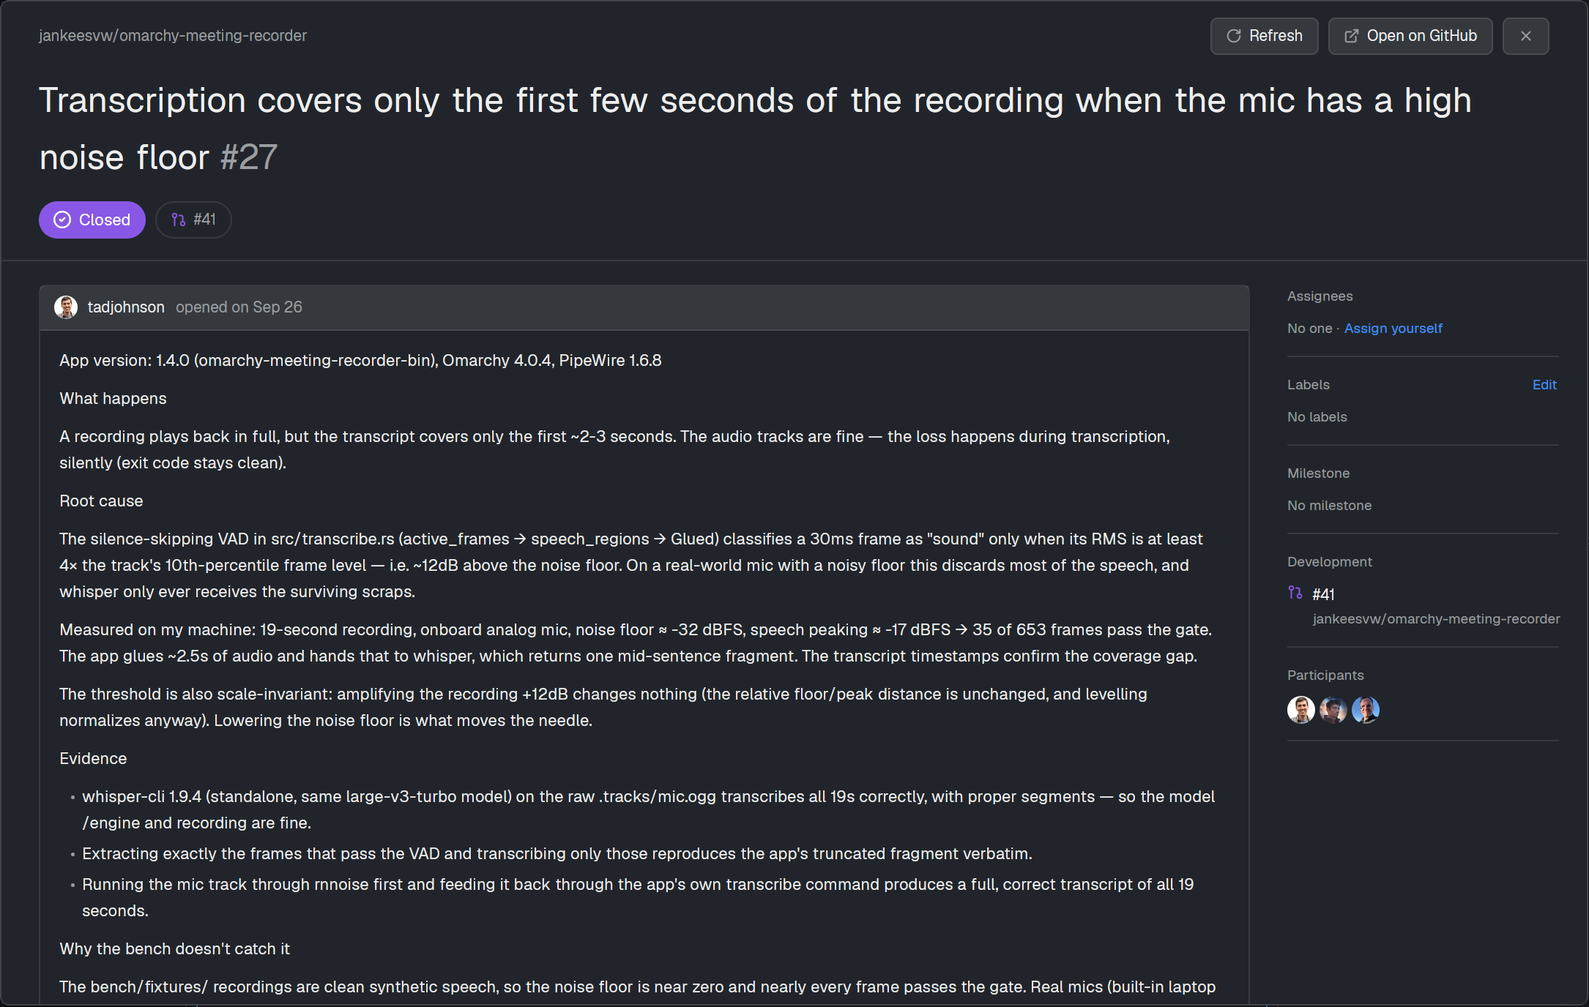
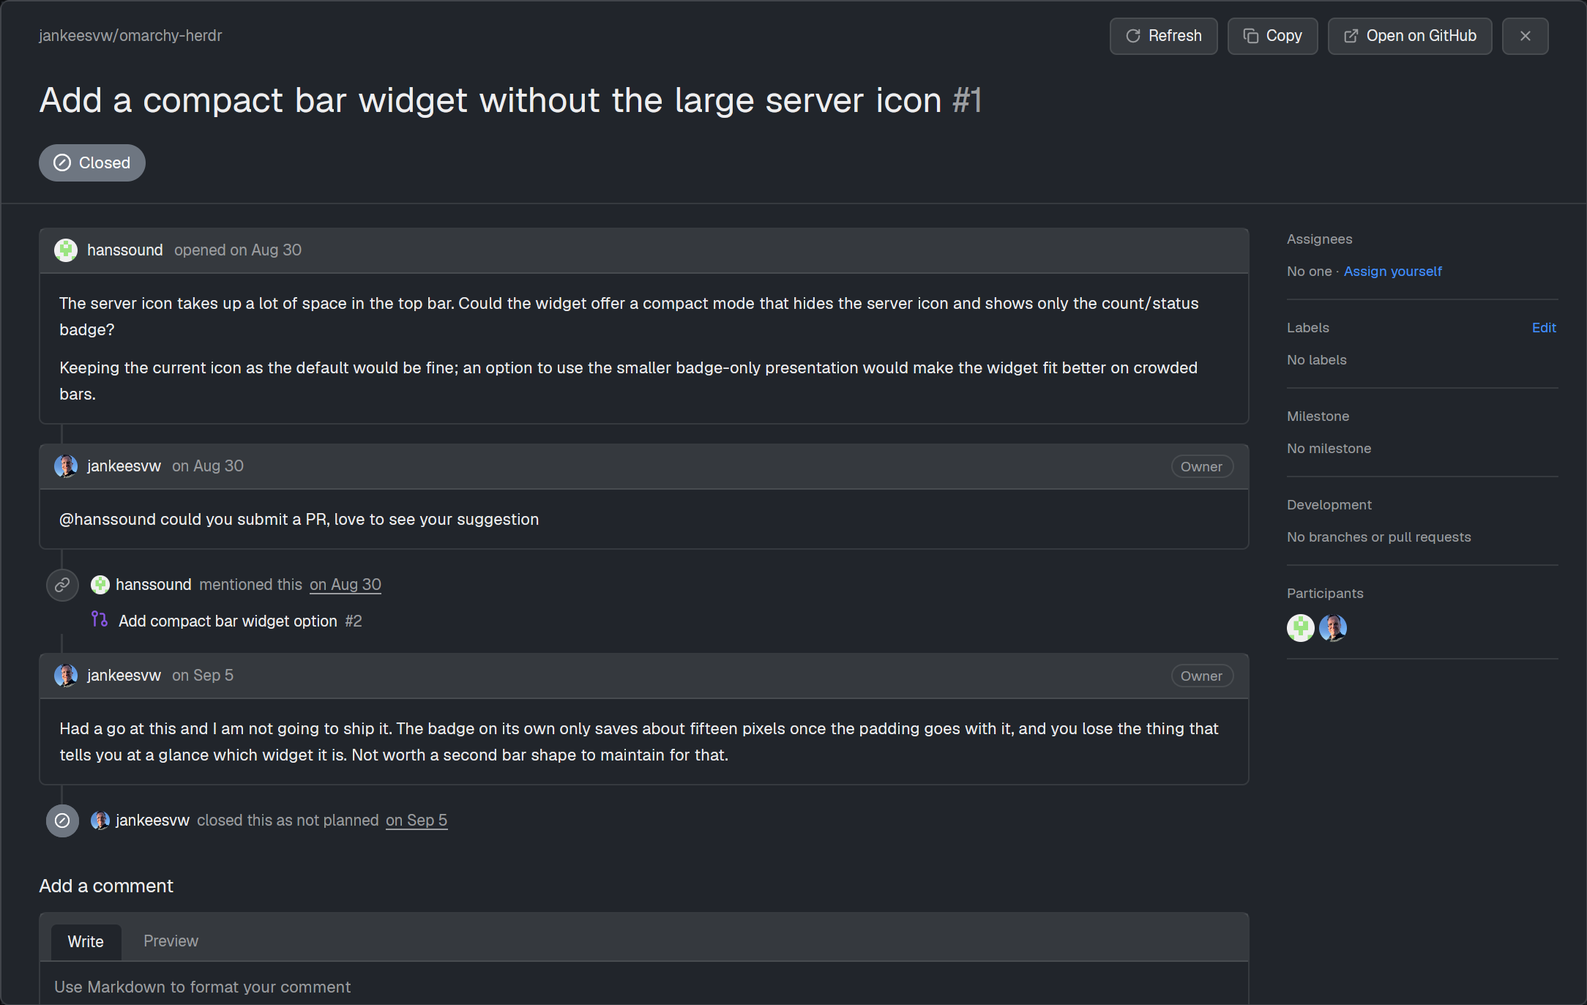
Show images in issues, add a copy menu, refresh the screenshots
Screenshots in bodies and comments are drawn between the markdown, from
a copy in the data folder; private repositories' attachments are
fetched with the gh token. Copy link, reference, number or title from
the issue view or by right-clicking a row.

diff --git a/mods/issues/viewer.js b/mods/issues/viewer.js
@@ -1,7 +1,8 @@
 import { div, svg, image } from "gpui-kit";
 import { v_flex, h_flex, TextView, TextareaState, Textarea } from "gpui-base";
-import { exec, theme, closeOverlay, setShared } from "herdr";
+import { exec, theme, openOverlay, closeOverlay, setShared } from "herdr";
 import { icons, icon, avatarPath, loadAvatar } from "./icons.js";
+import { blocks, picture, failed, loadPicture } from "./pictures.js";
 
 export const FIELDS = "number,title,body,author,state,stateReason,labels,assignees,createdAt,updatedAt,comments,url";
 const DETAIL = `${FIELDS},milestone,closedByPullRequestsReferences,reactionGroups`;
@@ -86,6 +87,12 @@ function timeline(raw) {
     }
   }
   return items;
+}
+
+// GitHub's Copy link, with the reference and number beside it: a popup of the panel's mod.
+export function copyMenu({ repo, number, title, url }, at) {
+  openOverlay({ mod: "issues", kind: "popup", width: 300, height: 222, ...(at ? { at } : {}),
+    props: { copyMenu: { url: url ?? `https://github.com/${repo}/issues/${number}`, ref: `${repo}#${number}`, number: `#${number}`, title: title ? `#${number} ${title}` : null } } });
 }
 
 // A label as GitHub tints it: its color faint behind, its color as text unless too dark to read.
@@ -251,11 +258,30 @@ export class Viewer {
         .when(!c.first && c.login === author, (e) => e.child(this.badge("Author", t)))
         .when(!c.first && Boolean(ROLES[c.role]), (e) => e.child(this.badge(ROLES[c.role], t))))
       .child(div().px(16).py(14).text_size(14).child(c.body?.trim()
-        ? TextView.markdown(key, linkify(c.body, this.repo)).selectable(true).on_link_click((url, cx) => this.link(url, cx))
+        ? this.markdown(key, c.body, t, cx)
         : div().text_color(t.muted).italic().child("No description provided.")))
       .when(c.reactions?.length > 0, (e) => e.child(h_flex().px(16).pb(14).gap(6).flex_wrap()
         .children(c.reactions.map((r) => h_flex().h(26).px(8).gap(5).items_center().rounded(13).border_1().border_color(t.border).bg(t.raised)
           .text_size(12).text_color(t.muted).child(div().text_size(14).child(r.emoji)).child(String(r.count))))));
+  }
+
+  // Markdown with its images drawn in between the text.
+  markdown(key, body, t, cx) {
+    const parts = blocks(body);
+    return v_flex().gap(12).children(parts.map((b, n) => b.image ? this.picture(`${key}-${n}`, b, t, cx)
+      : TextView.markdown(`${key}-${n}`, linkify(b.text, this.repo)).selectable(true).on_link_click((url, cx) => this.link(url, cx))));
+  }
+
+  // As GitHub sizes one: its width attribute, else its own, never wider than the column.
+  picture(key, b, t, cx) {
+    const loading = loadPicture(b.image);
+    if (loading) cx.spawn(async (cx) => { await loading; cx.notify(); });
+    const p = picture(b.image);
+    if (!p) return div().h(failed(b.image) ? 36 : 120).w_full().flex_none().rounded(6).border_1().border_color(t.border).bg(t.raised)
+      .flex().items_center().justify_center().px(12).text_size(12).text_color(t.muted).truncate()
+      .child(failed(b.image) ? `Image could not be loaded${b.alt ? `: ${b.alt}` : ""}` : "Loading image…");
+    const room = Math.max(240, (this.width ?? 1100) - 380), w = Math.min(b.width ?? p.width, room), h = Math.round(p.height * w / p.width);
+    return div().id(key).flex_none().cursor_pointer().on_click(() => openUrl(p.file)).child(image(p.path).w(w).h(h).rounded(6));
   }
 
   // An event on the timeline: a round icon on the line, then who did what, when.
@@ -400,6 +426,7 @@ export class Viewer {
       .when(this.loading || Boolean(this.busy), (e) => e.child(h_flex().gap(6).items_center().text_size(12).text_color(t.muted)
         .child(svg("mods/workspace-chrome/spinner.svg").size(12).text_color(t.working).spin(900)).child(this.busy ?? "Refreshing")))
       .when(Boolean(i) && !this.loading && !this.busy, (e) => e.child(this.button("issue-refresh", "Refresh", t, (_e, cx) => { this.load(cx); cx.notify(); }, { glyph: "refresh" })))
+      .when(Boolean(i), (e) => e.child(this.button("issue-copy", "Copy", t, () => copyMenu({ repo: this.repo, number: i.number, title: i.title, url: i.url }), { glyph: "copy" })))
       .when(Boolean(i), (e) => e.child(this.button("issue-github", "Open on GitHub", t, () => openUrl(i.url), { glyph: "external" })))
       .child(this.button("issue-close", "", t, () => closeOverlay(this.overlay), { glyph: "close" }));
     if (!i) return v_flex().id("issue").size_full().bg(t.background).text_color(t.foreground).text_size(14).px(32).pt(16).gap(20)
@@ -410,6 +437,7 @@ export class Viewer {
     const [state, color, glyph] = i.state === "OPEN" ? ["Open", GITHUB.open, "issue"] : i.state === "MERGED" ? ["Merged", GITHUB.done, "pull"]
       : i.stateReason === "NOT_PLANNED" ? ["Closed", GITHUB.skipped, "skipped"] : ["Closed", GITHUB.done, "done"];
     return v_flex().id("issue").size_full().min_h(0).bg(t.background).text_color(t.foreground).text_size(14)
+      .on_size_change((size, cx) => { if (size.width !== this.width) { this.width = size.width; cx.notify(); } })
       .child(v_flex().flex_none().px(32).pt(14).pb(18).gap(14).border_b(1).border_color(t.border)
         .child(bar)
         // Word by word, so the title wraps like text with the number after its last word.

diff --git a/mods/issues/pictures.js b/mods/issues/pictures.js
@@ -1,0 +1,87 @@
+import * as fs from "fs/promises";
+import { appHome, exec } from "herdr";
+
+// The markdown view draws no images, so the screenshots in issues are cut out
+// of the text and drawn between its runs, from a copy in the data folder.
+const IMAGE = /(```[\s\S]*?```)|\[?!\[([^\]]*)\]\(<?([^)\s>]+)>?(?:\s+"[^"]*")?\)(?:\]\([^)]*\))?|<img\b([^>]*)>/g;
+
+// The body as markdown runs and the images between them; code is left alone.
+export function blocks(markdown) {
+  const out = [];
+  let last = 0, m;
+  IMAGE.lastIndex = 0;
+  while ((m = IMAGE.exec(markdown))) {
+    if (m[1]) continue;
+    const attrs = m[4] ?? "", src = m[3] ?? /\bsrc=["']([^"']+)["']/.exec(attrs)?.[1];
+    if (!src || !/^https?:\/\//.test(src)) continue;
+    out.push({ text: markdown.slice(last, m.index) });
+    out.push({ image: src, alt: m[2] ?? /\balt=["']([^"']*)["']/.exec(attrs)?.[1] ?? "", width: Number(/\bwidth=["']?(\d+)/.exec(attrs)?.[1]) || null });
+    last = m.index + m[0].length;
+  }
+  out.push({ text: markdown.slice(last) });
+  return out.filter((b) => b.image || b.text.trim());
+}
+
+// Width and height from the file's own header.
+function dimensions(b) {
+  const u16 = (i) => (b[i] << 8) | b[i + 1], u32 = (i) => ((b[i] << 24) | (b[i + 1] << 16) | (b[i + 2] << 8) | b[i + 3]) >>> 0;
+  const ascii = (from, to) => String.fromCharCode(...b.slice(from, to));
+  if (b[0] === 0x89 && ascii(1, 4) === "PNG") return { width: u32(16), height: u32(20) };
+  if (ascii(0, 4) === "GIF8") return { width: b[6] | (b[7] << 8), height: b[8] | (b[9] << 8) };
+  if (b[0] === 0xff && b[1] === 0xd8) {
+    for (let i = 2; i + 9 < b.length;) {
+      if (b[i] !== 0xff || b[i + 1] === 0xff) { i++; continue; }
+      const marker = b[i + 1];
+      if (marker >= 0xc0 && marker <= 0xcf && ![0xc4, 0xc8, 0xcc].includes(marker)) return { width: u16(i + 7), height: u16(i + 5) };
+      i += 2 + u16(i + 2);
+    }
+    return null;
+  }
+  if (ascii(0, 4) === "RIFF" && ascii(8, 12) === "WEBP") {
+    const kind = ascii(12, 16);
+    if (kind === "VP8X") return { width: 1 + (b[24] | (b[25] << 8) | (b[26] << 16)), height: 1 + (b[27] | (b[28] << 8) | (b[29] << 16)) };
+    if (kind === "VP8 ") return { width: (b[26] | (b[27] << 8)) & 0x3fff, height: (b[28] | (b[29] << 8)) & 0x3fff };
+    if (kind === "VP8L") {
+      const bits = (b[21] | (b[22] << 8) | (b[23] << 16) | (b[24] << 24)) >>> 0;
+      return { width: (bits & 0x3fff) + 1, height: ((bits >>> 14) & 0x3fff) + 1 };
+    }
+  }
+  const text = ascii(0, Math.min(b.length, 2000));
+  if (/<svg\b/.test(text)) {
+    const w = /<svg[^>]*\bwidth="([\d.]+)/.exec(text)?.[1], h = /<svg[^>]*\bheight="([\d.]+)/.exec(text)?.[1];
+    if (w && h) return { width: Math.round(+w), height: Math.round(+h) };
+  }
+  return null;
+}
+
+const pictures = {};
+const hash = (s) => [...s].reduce((h, c) => (Math.imul(h, 31) + c.charCodeAt(0)) >>> 0, 2166136261).toString(16);
+
+// { path (for image()), file, width, height } once downloaded; null before.
+export const picture = (url) => typeof pictures[url] === "object" ? pictures[url] : null;
+export const failed = (url) => pictures[url] === "missing";
+
+// Starts the download the first time a URL is asked for: a promise that
+// resolves once it's ready or failed.
+export function loadPicture(url) {
+  if (pictures[url] !== undefined) return null;
+  pictures[url] = "loading";
+  return (async () => {
+    const path = `data/issues/images/${hash(url)}.png`, file = `${appHome()}/${path}`;
+    try {
+      if (!await fs.exists(file)) {
+        await fs.mkdir(`${appHome()}/data/issues/images`, { recursive: true });
+        // Attachments of private repositories need the gh token. It goes only to
+        // github.com, through stdin so it's never on a command line, and curl
+        // drops it when GitHub redirects to its storage host.
+        const r = await exec("sh", ["-c", /^https:\/\/github\.com\//.test(url)
+          ? 'gh auth token | sed "s/^/Authorization: token /" | curl -sfL --max-time 30 -H @- -o "$1" "$2" || { rm -f "$1"; exit 1; }'
+          : 'curl -sfL --max-time 30 -o "$1" "$2" || { rm -f "$1"; exit 1; }', "sh", file, url]);
+        if (r.code !== 0) throw new Error("download failed");
+      }
+      const size = dimensions(await fs.readFile(file));
+      if (!size?.width || !size?.height) throw new Error("not an image");
+      pictures[url] = { path, file, ...size };
+    } catch { pictures[url] = "missing"; }
+  })();
+}

diff --git a/mods/issues/main.js b/mods/issues/main.js
@@ -1,8 +1,8 @@
 import { View, div, svg } from "gpui-kit";
 import { v_flex, h_flex, InputState, Input } from "gpui-base";
-import { spaces, panes, focused, exec, hc, run, layout, theme, openOverlay, closeOverlay, props, appHome, shared, setShared } from "herdr";
+import { spaces, panes, focused, exec, hc, run, layout, theme, openOverlay, closeOverlay, notify, props, appHome, shared, setShared } from "herdr";
 import * as fs from "fs/promises";
-import { Viewer, FIELDS } from "./viewer.js";
+import { Viewer, FIELDS, copyMenu } from "./viewer.js";
 import { icons, icon } from "./icons.js";
 
 // Where the focused pane is, as the Changes panel finds it. A focused mod pane
@@ -79,12 +79,13 @@ async function save(repo, store) {
 }
 
 // The panel; its Issues button beside the tab bar's Files and Changes (props
-// { button: true }); or one issue, or the sort menu, as an overlay of the panel.
+// { button: true }); or one issue, the sort menu or the copy menu, as an overlay of the panel.
 export default class Issues extends View {
   init(_props, cx) {
-    const { issue, overlay, sortMenu, button } = props() ?? {};
+    const { issue, overlay, sortMenu, copyMenu: copying, button } = props() ?? {};
     if (issue) { this.viewer = new Viewer(issue, overlay, cx); return; }
     if (sortMenu) { this.menu = overlay; return; }
+    if (copying) { this.copying = { ...copying, overlay }; return; }
     if (button) {
       // The tab bar restores each space's panel only if it's one of these.
       const panels = shared("workspace.panels") ?? ["files", "changes"];
@@ -278,6 +279,7 @@ export default class Issues extends View {
     const closed = i.state && i.state !== "OPEN";
     return h_flex().id(`${where}-${i.number}`).flex_none().px(10).py(6).gap(8).items_start().rounded(7).cursor_pointer()
       .hover((s) => s.bg(t.hover)).on_click(() => this.open(i.number))
+      .on_mouse_down("right", () => copyMenu({ repo: this.repo, number: i.number, title: i.title, url: i.url }, "pointer"))
       .child(div().flex_none().w(40).text_color(closed ? t.ansi5 : t.dim).child(`#${i.number}`))
       .child(div().flex_1().min_w(0).text_color(closed && where !== "issue" ? t.muted : t.foreground).child(i.title));
   }
@@ -301,10 +303,21 @@ export default class Issues extends View {
         .child(div().w(14).text_color(t.accent).child(key === current ? "✓" : "")).child(s.label)));
   }
 
+  copyMenu(t) {
+    const { url, ref, number, title, overlay } = this.copying;
+    const items = [["Copy link", url], ["Copy reference", ref], ["Copy number", number], ["Copy number and title", title]].filter(([, text]) => text);
+    return v_flex().id("issues-copy").size_full().p(6).gap(1).bg(t.popover).text_color(t.foreground).text_size(12)
+      .children(items.map(([label, text], n) => v_flex().id(`copy-${n}`).px(8).py(6).rounded(6).cursor_pointer().hover((e) => e.bg(t.hover))
+        .on_click((_e, cx) => { cx.write_to_clipboard(text); notify({ title: "Copied", body: text, level: "success", timeout: 2500 }); closeOverlay(overlay); })
+        .child(div().font_semibold().child(label))
+        .child(div().text_size(11).text_color(t.muted).truncate().child(text))));
+  }
+
   render(cx) {
     if (this.viewer) return this.viewer.render(cx);
     const t = theme();
     if (this.menu) return this.sortMenu(t);
+    if (this.copying) return this.copyMenu(t);
     if (this.button) return this.toolbar(t);
     const away = hidden();
     if (this.away && !away) { this.refresh(cx); this.scan(cx); }

diff --git a/mods/issues/icons.js b/mods/issues/icons.js
@@ -18,6 +18,7 @@ const ICONS = {
   pull: SVG(`<circle cx="18" cy="18" r="3"/><circle cx="6" cy="6" r="3"/><path d="M13 6h3a2 2 0 0 1 2 2v7"/><line x1="6" x2="6" y1="9" y2="21"/>`),
   external: SVG(`<path d="M15 3h6v6"/><path d="M10 14 21 3"/><path d="M18 13v6a2 2 0 0 1-2 2H5a2 2 0 0 1-2-2V8a2 2 0 0 1 2-2h6"/>`),
   close: SVG(`<path d="M18 6 6 18"/><path d="m6 6 12 12"/>`),
+  copy: SVG(`<rect width="14" height="14" x="8" y="8" rx="2" ry="2"/><path d="M4 16c-1.1 0-2-.9-2-2V4c0-1.1.9-2 2-2h10c1.1 0 2 .9 2 2"/>`),
   back: SVG(`<path d="m12 19-7-7 7-7"/><path d="M19 12H5"/>`),
 };
 

diff --git a/RECIPE.md b/RECIPE.md
@@ -13,10 +13,11 @@ A side panel beside Files and Changes that lists the GitHub issues of the reposi
   - The list: rows of `#number` (40px wide, `dim`) and the title (wrapping). When the focused terminal mentions issues, an "In this terminal" heading comes first with those rows (closed ones with a purple `ansi5` number), then a heading for the list below.
   - Before any repository has been seen: a centered circle-dot icon, "No repository yet" and "Focus a terminal inside a GitHub repository and its issues show up here."
 - **The issue dialog**, 86% by 90% of the window, drawn after github.com's issue page:
-  - A top bar: the repository, a Back button after following a link, an error if the last action failed, a spinner while refreshing or saving, and Refresh, Open on GitHub and close buttons.
+  - A top bar: the repository, a Back button after following a link, an error if the last action failed, a spinner while refreshing or saving, and Refresh, Copy, Open on GitHub and close buttons.
   - The title at 30px, regular weight, wrapping word by word with a `muted` `#number` after its last word. Below it a 32px state pill in GitHub's fixed colors (white on `#238636` Open, `#8957e5` Closed or Merged, `#6e7681` not planned) and an outlined pill per linked pull request.
   - Left, the timeline: full-width cards (6px radius, `border`) with a 38px `raised` header holding a 20px GitHub avatar, the login, "opened on Sep 26" or "29d ago", and pills for bot, Author and the GitHub role (Owner, Member, Contributor). Below the markdown, reaction pills (emoji and count). Events sit between the cards on a 2px line 20px in: a 28px round icon (tag, person, pencil, signpost, link, commit; filled purple for closed, green for reopened, grey for not planned), a 16px avatar, the bold login and what happened ("added Bug label", "closed this as completed", "mentioned this" with the referencing issue or pull request below, "added a commit that references this issue" with its short SHA). Then "Add a comment": a card with Write and Preview tabs, a textarea growing from 4 to 14 rows, "Close issue" (with a ▾ for completed or not planned) or "Reopen issue", and a green "Comment" button.
   - Right, a 264px sidebar of sections split by lines: Assignees ("No one · Assign yourself"), Labels (GitHub-style chips, with Edit), Milestone, Development (the linked pull requests) and Participants (avatars).
+- **The copy menu**, a 300 by 222 popup: Copy link, Copy reference (`owner/repo#27`), Copy number (`#27`) and Copy number and title, each with the text it copies below it.
 - **The sort menu**, a popup: "Sort by" and Newest, Oldest, Recently updated, Least recently updated, Most commented, with a check on the current one.
 
 ## How it behaves
@@ -29,20 +30,23 @@ A side panel beside Files and Changes that lists the GitHub issues of the reposi
 - Clicking a row opens the dialog with the cached issue, which shows at once and refreshes behind it.
 - In the dialog, `#123` and `owner/repo#123` outside code are links: issue and pull request links open in the dialog, with Back; other links open in the browser.
 - Opening an issue loads it in full (`gh issue view` with milestone, linked pull requests and reactions) and its timeline (`gh api --paginate --slurp repos/…/issues/N/timeline`); label changes by one person within a minute are one line, and project and subscription events are left out. Avatars are downloaded once (`curl` from the timeline's `avatar_url`, else `github.com/<login>.png`) into `data/issues/avatars/`; bots without one get an initial.
+- Images in a body or comment (`![alt](url)`, `<img src width>`, outside code) are cut out of the markdown, which draws none, and drawn between its runs: downloaded once into `data/issues/images/`, measured from the file's header (PNG, JPEG, GIF, WebP, SVG), at their width attribute or own width but never wider than the thread column. github.com URLs (private repositories' attachments) go with the `gh` token, piped to `curl -H @-` and dropped by curl on the redirect to GitHub's storage host. Clicking one opens the file.
+- Copy (in the issue's top bar, or right-clicking a row in the panel) opens the copy menu; picking a line writes it to the clipboard (`cx.write_to_clipboard`) and shows a "Copied" toast.
 - Comment posts the box (also Ctrl+Enter); Preview renders it. Close and Reopen take the box's text along as a comment. Edit lists the repository's labels with a check on the issue's; clicking one adds or removes it at once. Every change runs `gh issue …`, reloads the issue and tells the panel through shared state, which fetches that one issue so the list is current.
 - The tab bar remembers each space's side panel only if it's in shared `workspace.panels`; the button adds `issues` there.
 
 ## Built from
 
 - **Layout** (`layouts/main-issues.json`): Herdr's `main` 0.1.9. The `tabs` block sits in a 42px row `tab-bar` with a 78px block `issues-button` (`{ mod: "issues", props: { button: true } }`, `window_drag`). The `panel-body` stack gets a third child `issues` (`{ mod: "issues" }`).
-- **Mod** `mods/issues/`: `main.js` is the panel, the button (props `button`), the sort menu (overlay props `sortMenu`) and the dialog (overlay props `issue: { repo, number, on, data, me }`), which `viewer.js` draws. `icons.js` writes its Lucide icons to `data/issues/icons/` and downloads avatars to `data/issues/avatars/`.
+- **Mod** `mods/issues/`: `main.js` is the panel, the button (props `button`), the sort menu (overlay props `sortMenu`) and the dialog (overlay props `issue: { repo, number, on, data, me }`), which `viewer.js` draws. `icons.js` writes its Lucide icons to `data/issues/icons/` and downloads avatars to `data/issues/avatars/`; `pictures.js` splits markdown around its images and downloads and measures them. The copy menu is overlay props `copyMenu: { url, ref, number, title }`.
 - **herdr**: `spaces`, `panes`, `focused`, `layout`, `theme`, `exec`, `hc`, `run` (`layout.select`, `layout.show`, `layout.hide`), `openOverlay`, `closeOverlay`, `props`, `shared` / `setShared` (`issues.sort`, `issues.changed`, `workspace.panels`), `appHome`, `localStorage` (repositories per folder, the `gh` login, the last repository), `fs/promises` (the cache).
 - **gpui-base**: `TextView.markdown` with `on_link_click`, `TextareaState` / `Textarea`, `InputState` / `Input`.
-- **Programs**: `gh` (`repo view`, `api user`, `issue list`, `issue view`, `issue comment`, `issue close`, `issue reopen`, `issue edit`, `label list`, `api …/timeline`), `curl` (avatars).
+- **Programs**: `gh` (`repo view`, `api user`, `issue list`, `issue view`, `issue comment`, `issue close`, `issue reopen`, `issue edit`, `label list`, `api …/timeline`), `curl` (avatars and images).
 
 ## Watch out
 
 - Herdr doesn't draw SVGs or images from a symlinked mod folder (JavaScript loads fine), so icons and avatars live in the data folder and are drawn only once they're on disk; drawing a missing file first would leave it blank.
+- The markdown view (`TextView.markdown`) draws no images at all, not even the alt text.
 - There's no inline styled text: the title is one element per word in a wrapping row, so the muted number can follow its last word.
 - Saving a mod file reloads it; a dialog that was loading at that moment shows "interrupted". Reopen it.
 - Herdr doesn't dock a symlinked mod from `mod.json`; `place` is `none` and the layout places it.

diff --git a/README.md b/README.md
@@ -7,8 +7,9 @@ A GitHub issues panel for the [Herdr](https://herdr.dev) desktop app. It sits ne
 - **Follows your focus.** The panel shows the issues of the GitHub repository of the focused terminal. Each space remembers its own repository, so a terminal outside any repository keeps showing that one.
 - **In this terminal.** Issue numbers (`#123`) and issue or pull request links on the focused terminal's screen are listed at the top, newest first, so an agent's "fixed #55" is one click away.
 - **Open and closed, sorted your way.** Filter on open or closed, all or assigned to you, or by text, and sort the way GitHub does: newest, oldest, recently updated, least recently updated, most commented.
+- **Copy it.** Copy an issue's link, `owner/repo#123` or `#123` from the issue view, or by right-clicking it in the list.
 - **Fast.** Issues are cached per repository. After the first fetch, only what changed since the last sync is fetched, every 30 seconds while the panel is open.
-- **A GitHub-style issue view.** The timeline as github.com draws it: comments with avatars, roles and reactions, and the events between them (labels, assignments, references, commits, closing). Markdown with tables and code, `#123` links that open in place with Back, a comment box with preview, and a sidebar for assignees, labels, milestone, linked pull requests and participants.
+- **A GitHub-style issue view.** The timeline as github.com draws it: comments with avatars, roles and reactions, and the events between them (labels, assignments, references, commits, closing). Markdown with tables, code and screenshots (also from private repositories), `#123` links that open in place with Back, a comment box with preview, and a sidebar for assignees, labels, milestone, linked pull requests and participants.
 
 ![Issue view](issue.png)
 
@@ -50,4 +51,4 @@ The mod also works as a pane of its own: `herdr-app do pane.split --direction ri
 
 ## What it runs and stores
 
-The mod runs `gh` (on the machine of the space, for remote spaces) and `hc read` on the focused terminal to find issue numbers. It changes issues only when you press a button in the issue view. Its cache lives in `~/.config/herdr-app/data/issues/`, next to the icons and GitHub avatars it saves there (Herdr doesn't load images from a symlinked mod folder).
+The mod runs `gh` (on the machine of the space, for remote spaces) and `hc read` on the focused terminal to find issue numbers. It changes issues only when you press a button in the issue view. Its cache lives in `~/.config/herdr-app/data/issues/`, next to the icons, GitHub avatars and issue images it saves there (Herdr doesn't load images from a symlinked mod folder). Images on github.com are fetched with your `gh` token, which only goes to github.com.
